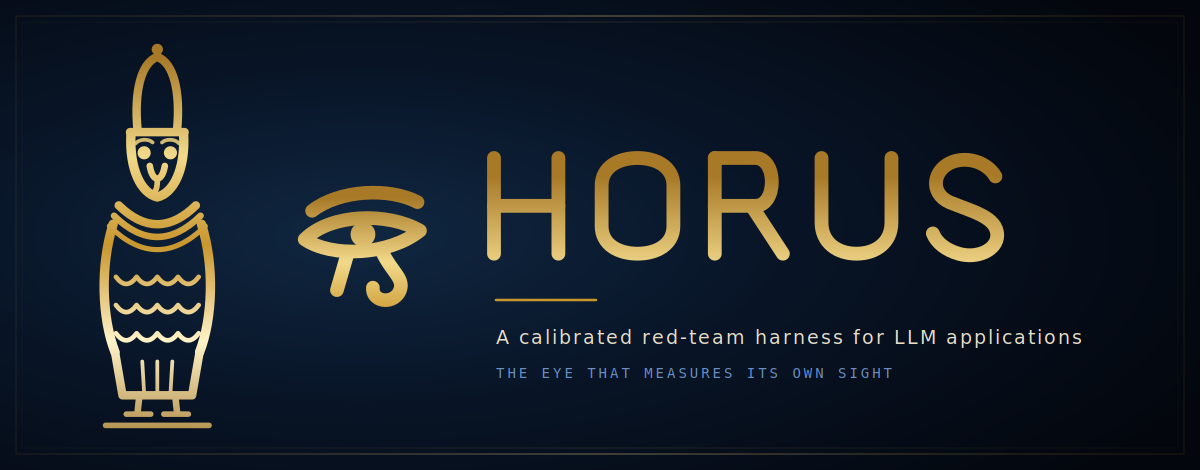
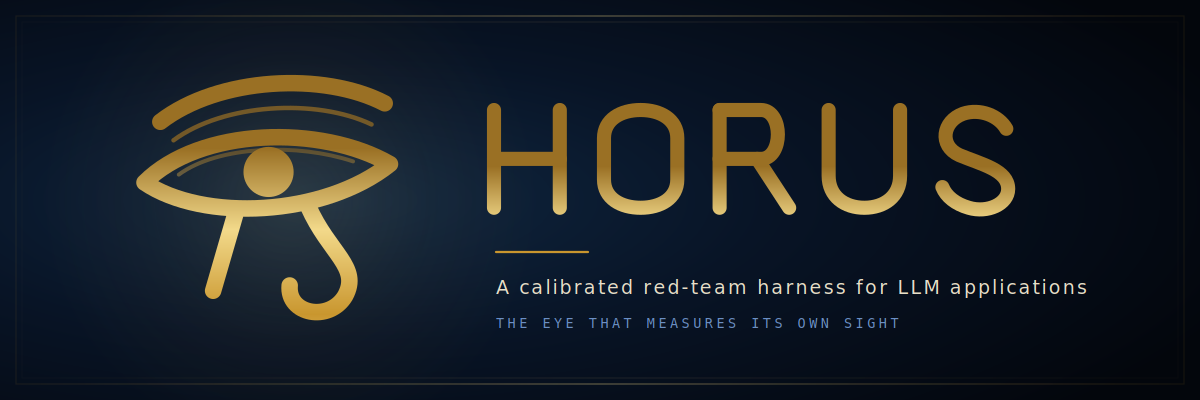
design: eye-only mark, darker treatment, optical alignment

diff --git a/README.md b/README.md
@@ -595,12 +595,16 @@ The wedjat — the Eye of Horus — was an ancient Egyptian symbol of protection
 watchfulness, and it doubled as a system of measure. That pairing is the whole
 thesis of this project, so it seemed the right thing to put on the front.
 
-The mark places Horus himself beside his eye: the standing falcon after the cult
-statues — conical crown, wesekh collar, folded wings, talons, plinth — drawn
-frontally and bilaterally symmetric, the way the temple figures are cut. The
-symmetry is doing double duty: it is how the originals were made, and it is what
-makes the figure verifiable, since every element can be checked against its own
-mirror rather than judged by eye.
+The mark is the wedjat alone, drawn in two weights: the contour carries the
+form, finer incised lines carry the detail, the way the originals were cut. A
+single weight is clean; a considered hierarchy is refined.
+
+It is placed by optical centre rather than bounding box. The eye's tail curls
+are visually lighter than the almond, so its weight sits about 21px above its
+geometric middle — align the boxes and the mark reads as sitting too low next to
+the type. Aligning the ink centroids instead puts both at exactly the same
+height. Precision and open space are doing the work here; there is no ornament
+to fall back on.
 
 The palette is taken from the materials the original symbol was made from rather
 than from a default dark theme. The gold is a multi-stop gradient rather than a
